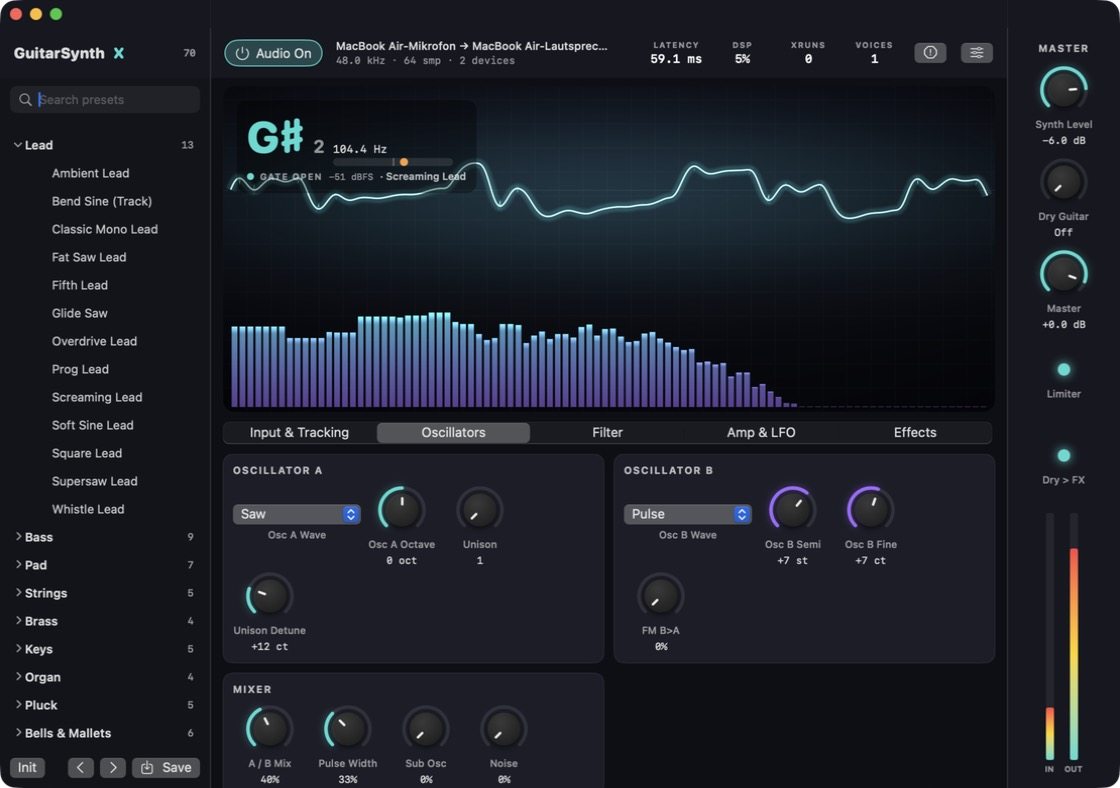
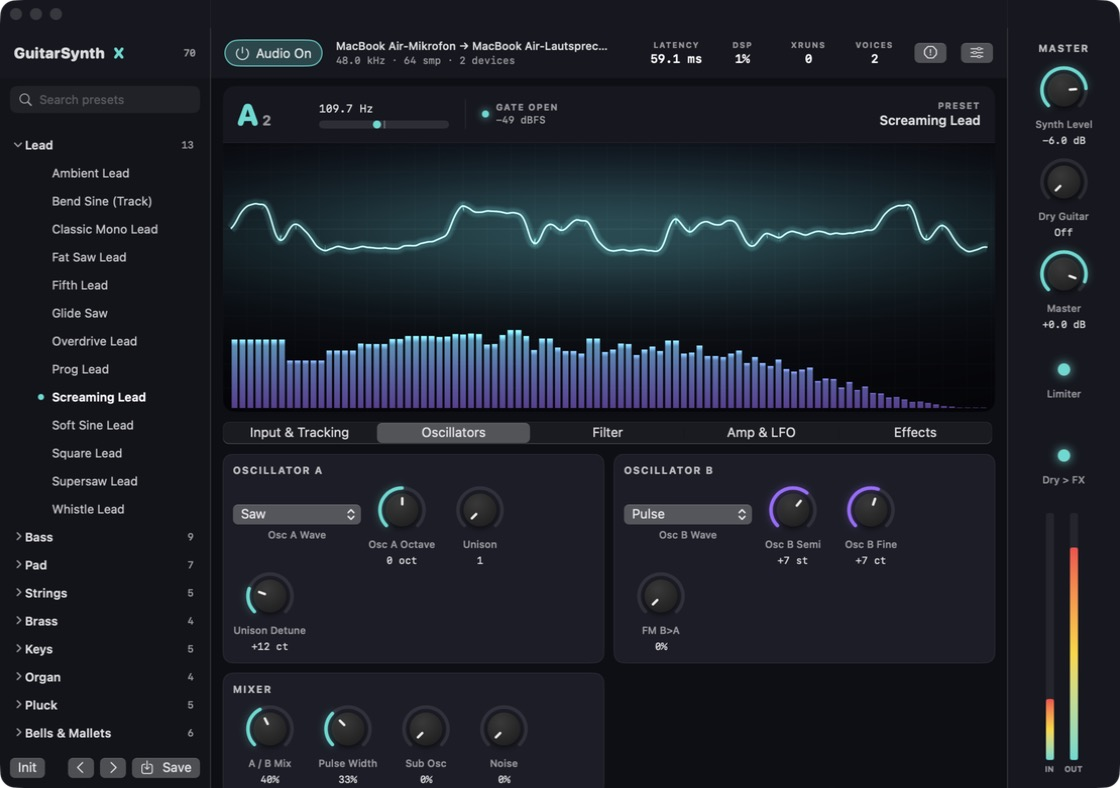
README: new screenshot with the tuner bar, describe the tuner bar
Claude-Session: https://claude.ai/code/session_01T7upPQDFkeULGrytzuiCTp

diff --git a/README.md b/README.md
@@ -12,7 +12,7 @@
 </p>
 
 <p align="center">
-  <img src="docs/screenshot.png" width="900" alt="GuitarSynthX playing the Screaming Lead preset: the tuner shows G#2, with the oscilloscope and spectrum of the synth output above the oscillator controls and the preset list on the left">
+  <img src="docs/screenshot.png" width="900" alt="GuitarSynthX playing the Screaming Lead preset: the tuner bar shows A2 at 109.7 Hz with the gate open, above the oscilloscope and spectrum of the synth output; the preset list is on the left and the oscillator controls below">
 </p>
 
 ---
@@ -105,6 +105,12 @@ Play single notes with a normal guitar input. Chords need a hex pickup (see
 The top bar shows the hardware round-trip latency, the DSP load (the share of
 the real-time budget the audio engine uses), dropouts (*XRUNS*) and active
 voices.
+
+The **tuner bar** above the visualizer shows the note being detected, its
+frequency and how many cents sharp or flat it is, whether the input gate is
+open (with the input level), and the loaded preset. In Hex mode it shows one
+box per string. Below it, the visualizer draws the oscilloscope and spectrum
+of the synth output.
 
 ## Presets
 

diff --git a/CHANGELOG.md b/CHANGELOG.md
@@ -12,6 +12,9 @@ version being released into the GitHub release notes.
   waveform. The layout stays put as notes change, and in Hex mode the six
   strings appear in the same bar.
 
+### Documentation
+- New README screenshot showing the tuner bar.
+
 ## [1.1.1] - 2026-11-18
 
 ### Fixed
